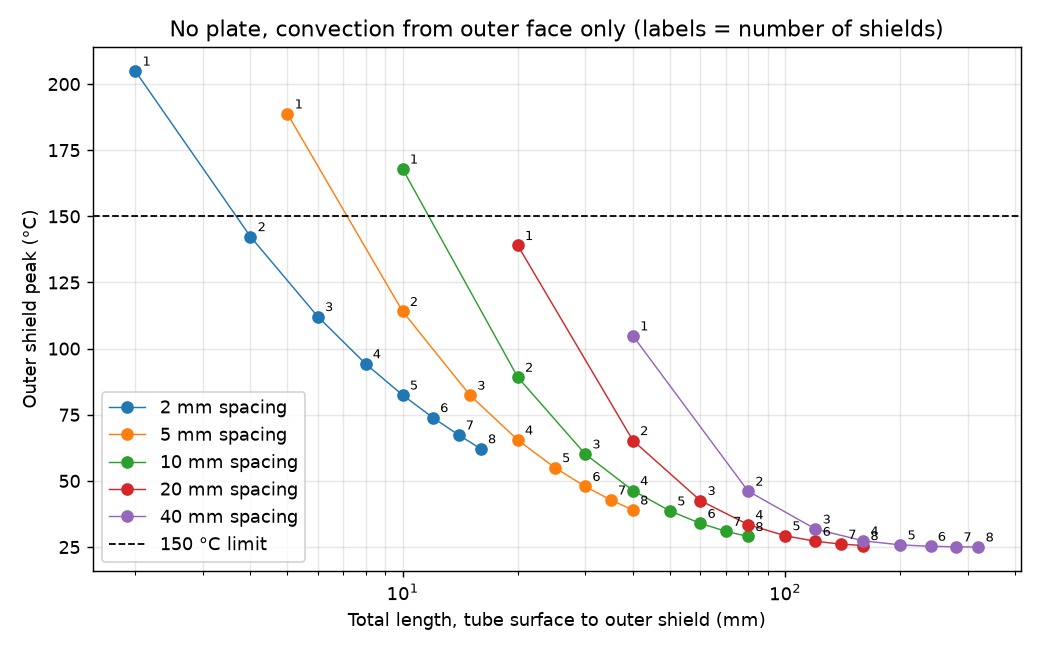
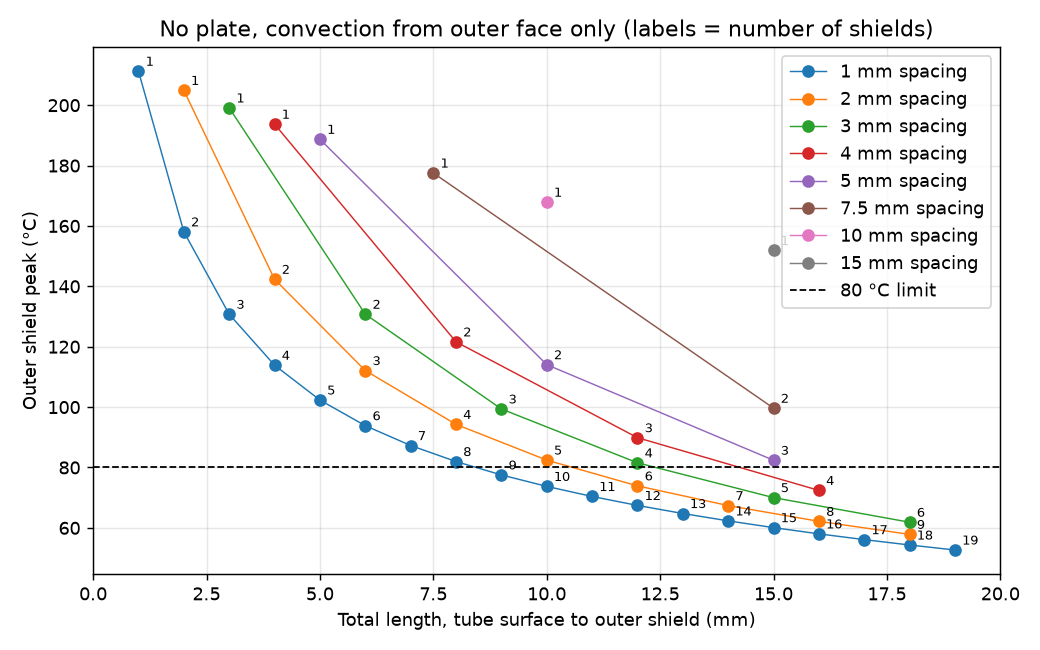
Issue #8: 80 C limit, plot limited to stacks under 20 mm on a linear axis

diff --git a/plot_issue8.py b/plot_issue8.py
@@ -6,18 +6,20 @@ from radiation import Setup, solve
 
 s = Setup()
 fig, ax = plt.subplots(figsize=(8, 5))
-for sp in (0.002, 0.005, 0.010, 0.020, 0.040):
+for sp in (0.001, 0.002, 0.003, 0.004, 0.005, 0.0075, 0.010, 0.015):
     L, T = [], []
-    for n in range(1, 9):
+    for n in range(1, 20):
+        if n * sp >= 0.020:  # total length under 20 mm
+            break
         L.append(n * sp * 1e3)  # n gaps: tube->shield 1, then shield to shield
         T.append(solve(s, n, plate=False, spacing=sp, convect_front=False, n_strips=40).T_plate_max - 273.15)
     ax.plot(L, T, "o-", lw=0.8, label=f"{sp*1e3:g} mm spacing")
-    for l, t, n in zip(L, T, range(1, 9)):
+    for l, t, n in zip(L, T, range(1, 20)):
         ax.annotate(str(n), (l, t), textcoords="offset points", xytext=(4, 3), fontsize=7)
-ax.axhline(150, color="k", ls="--", lw=1, label="150 °C limit")
-ax.set_xscale("log")
+ax.axhline(80, color="k", ls="--", lw=1, label="80 °C limit")
+ax.set_xlim(0, 20)
 ax.set_xlabel("Total length, tube surface to outer shield (mm)")
 ax.set_ylabel("Outer shield peak (°C)")
 ax.set_title("No plate, convection from outer face only (labels = number of shields)")
-ax.legend(); ax.grid(alpha=0.3, which="both")
+ax.legend(); ax.grid(alpha=0.3, )
 fig.tight_layout(); fig.savefig("issue8_length_vs_temp.png", dpi=130)

diff --git a/study_issue8.py b/study_issue8.py
@@ -3,7 +3,7 @@ Shields needed to keep the outermost sheet below 150 C, and how sheet spacing af
 from radiation import Setup, solve
 
 s = Setup()
-LIMIT = 150 + 273.15
+LIMIT = 80 + 273.15
 kw = dict(convect_front=False, n_strips=40)
 
 print("Fixed 10 mm gap, shields evenly spaced inside it (peak of outermost sheet, C)")

diff --git a/README.md b/README.md
@@ -77,6 +77,10 @@ each sheet's radiation escapes past the edges instead of reaching the next sheet
 more shields into a fixed 10 mm gap gives diminishing returns (no plate: 168, 114, 96, 87 °C
 for 1–4 shields), since the gaps thin out and air conduction across them takes over.
 
+With an **80 °C limit** and the stack kept under 20 mm from the tube surface
+(`python plot_issue8.py`): the fewest shields is 4 at 4 mm spacing (16 mm, 72 °C), and the
+shortest stack is 9 at 1 mm spacing (9 mm, 77 °C).
+
 ## Running
 
 ```bash
